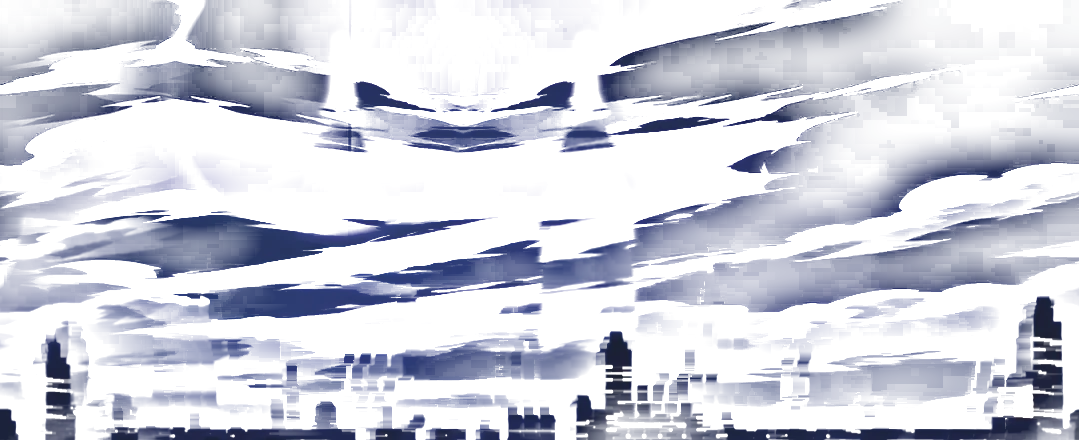
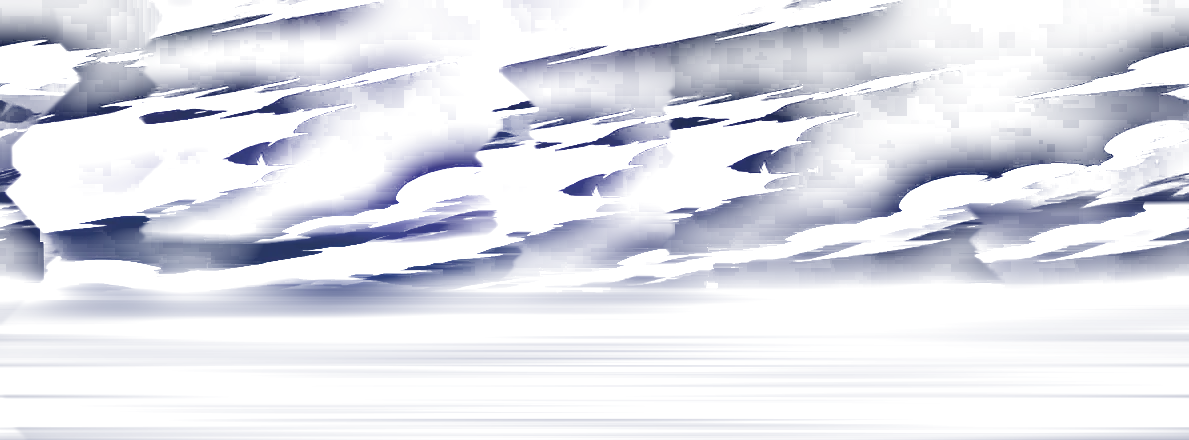
Smooth drifting clouds down to the rooftops
- Moving sky is masked to the exact skyline, so no still sky shows
  through in blocks around the spires
- The moving layer is the painting's whole sky with the moon, tower
  and building gaps filled from nearby clouds along best-match seams;
  the low sky is plain haze, so nothing building-like drifts

diff --git a/styles.css b/styles.css
@@ -63,21 +63,21 @@ button { font: inherit; color: inherit; }
 .sky-drift {
   position: absolute; left: 23.5048%; top: 0; width: 76.4952%; height: 46.7588%;
   overflow: hidden; pointer-events: none;
-  -webkit-mask: url(assets/sky-mask.png?v=15) 0 0 / 100% 100% no-repeat; mask: url(assets/sky-mask.png?v=15) 0 0 / 100% 100% no-repeat;
+  -webkit-mask: url(assets/sky-mask.png?v=18) 0 0 / 100% 100% no-repeat; mask: url(assets/sky-mask.png?v=18) 0 0 / 100% 100% no-repeat;
 }
 .sky-strip, .sky-front {
-  position: absolute; top: 0; height: 100%; left: -84.363%; width: 268.725%;
-  animation: skyDrift 140s linear infinite; will-change: transform;
+  position: absolute; top: 0; height: 100%; left: -92.963%; width: 192.963%;
+  animation: skyDrift 154s linear infinite; will-change: transform;
 }
-.sky-strip { background: url(assets/sky-tile.webp?v=17) 0 0 / 31.394% 100% repeat-x; }
+.sky-strip { background: url(assets/sky-tile.webp?v=18) 0 0 / 48.177% 100% repeat-x; }
 .sky-moon { position: absolute; left: 0; top: 0; width: 55.747%; height: 100%; display: block; user-select: none; -webkit-user-drag: none; }
 .sky-front-wrap {
   position: absolute; inset: 0;
   -webkit-mask: radial-gradient(ellipse 10.6% 30.9% at 24.94% 20.91%, #000 0, #000 92%, transparent 100%) 0 0 / 100% 100% no-repeat;
   mask: radial-gradient(ellipse 10.6% 30.9% at 24.94% 20.91%, #000 0, #000 92%, transparent 100%) 0 0 / 100% 100% no-repeat;
 }
-.sky-front { background: url(assets/cloud-front-tile.webp?v=15) 0 0 / 31.394% 100% repeat-x; }
-@keyframes skyDrift { to { transform: translateX(31.394%); } }
+.sky-front { background: url(assets/cloud-front-tile.webp?v=18) 0 0 / 48.177% 100% repeat-x; }
+@keyframes skyDrift { to { transform: translateX(48.177%); } }
 /* cars on the street, and what stands in front of them (balcony, trees, near lamp) */
 .traffic { position: absolute; inset: 0; width: 100%; height: 100%; pointer-events: none; }
 .city-front { position: absolute; left: 29.9043%; top: 72.9012%; width: 39.5933%; height: auto; pointer-events: none; user-select: none; -webkit-user-drag: none; }

diff --git a/index.html b/index.html
@@ -9,7 +9,7 @@
   <link rel="preconnect" href="https://fonts.gstatic.com" crossorigin>
   <link href="https://fonts.googleapis.com/css2?family=Caveat:wght@500&family=Josefin+Sans:wght@300;400;600&family=Limelight&family=Special+Elite&display=swap" rel="stylesheet">
   <link rel="preload" as="image" href="assets/city.webp?v=14">
-  <link rel="stylesheet" href="styles.css?v=20">
+  <link rel="stylesheet" href="styles.css?v=21">
 </head>
 <body>
 
